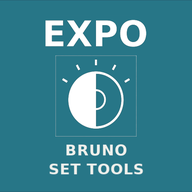
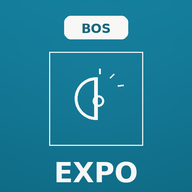
Add files via upload

Changed region(s): [[0.2188, 0.0625, 0.7812, 0.9688], [0.0, 0.0, 1.0, 0.0312]]

diff --git a/index.html b/index.html
@@ -6,27 +6,24 @@
   <meta name="theme-color" id="themeColor" content="#F3F1EC" />
   <meta name="apple-mobile-web-app-capable" content="yes" />
   <meta name="apple-mobile-web-app-status-bar-style" content="black-translucent" />
-  <meta name="apple-mobile-web-app-title" content="EXPO · BRUNO" />
-  <title>BRUNO SET TOOLS / EXPO</title>
+  <meta name="apple-mobile-web-app-title" content="EXPO · BOS" />
+  <title>BRUNO ONSET / EXPO</title>
   <link rel="manifest" href="manifest.webmanifest" />
   <link rel="apple-touch-icon" href="icon-192.png" />
-  <link rel="stylesheet" href="style.css?v=3.19" />
+  <link rel="stylesheet" href="style.css?v=3.20" />
 </head>
 <body>
   <main class="app" id="mainApp">
     <header class="top">
       <div class="top-inner">
-        <div>
-          <div class="eyebrow-row">
-            <a class="eyebrow eyebrow-link" href="https://www.brunoguillard.com/" target="_blank" rel="noopener noreferrer">
-              <span class="eyebrow-mark"></span>
-              <span class="eyebrow-brand">BRUNO SET TOOLS</span>
-              <span class="eyebrow-tool">/ EXPO</span>
-            </a>
-          </div>
-          <h1>Compensateur d’exposition</h1>
+        <div class="brand-stack">
+          <a class="brandline" href="https://www.brunoguillard.com/" target="_blank" rel="noopener noreferrer" aria-label="Site de Bruno Guillard">
+            <span class="bos-pill">BOS</span>
+            <span class="brand-name">BRUNO ONSET</span>
+          </a>
+          <h1>EXPO</h1>
         </div>
-        <button class="theme-toggle" id="themeToggle" type="button">DARK</button>
+        <button class="theme-toggle" id="themeToggle" type="button" aria-label="Changer de thème">DARK</button>
       </div>
     </header>
 
@@ -349,7 +346,7 @@
   <dialog id="infoDialog">
     <div class="dialog-inner">
       <button id="closeDialog" class="close" aria-label="Fermer">×</button>
-      <div class="dialog-kicker">BRUNO SET TOOLS / EXPO</div>
+      <div class="dialog-kicker">BRUNO ONSET / EXPO</div>
       <h2>Comment lire le résultat</h2>
       <p><strong>+1 stop</strong> signifie que le nouveau réglage donne un niveau d’exposition équivalent deux fois plus élevé que le réglage de départ.</p>
       <p><strong>−1 stop</strong> signifie deux fois moins.</p>
@@ -357,6 +354,6 @@
     </div>
   </dialog>
 
-  <script src="app.js?v=3.19"></script>
+  <script src="app.js?v=3.20"></script>
 </body>
 </html>

diff --git a/style.css b/style.css
@@ -608,3 +608,20 @@ body.dark .chips button.native-iso:not(.active){
 .nd-quick-tip .nd-grid{
   margin-top:10px;
 }
+
+
+/* V BOS — brand header */
+.brand-stack{display:flex;flex-direction:column;gap:10px;}
+.brandline{display:inline-flex;align-items:center;gap:10px;width:max-content;text-decoration:none;color:inherit;}
+.brandline:active{opacity:.72;}
+.bos-pill{display:inline-flex;align-items:center;justify-content:center;min-width:42px;height:28px;padding:0 12px;border-radius:999px;background:#FFFFFF;border:1px solid rgba(47,91,102,.18);color:var(--accent);font-size:14px;line-height:1;letter-spacing:.12em;font-weight:900;box-shadow:0 1px 0 rgba(0,0,0,.03);}
+.brand-name{font-size:13px;line-height:1;letter-spacing:.18em;font-weight:850;color:var(--text);}
+.brand-stack h1{margin:0;font-size:38px;line-height:1;letter-spacing:-.045em;}
+body.dark .bos-pill{background:#F3F3F0;color:var(--accent);border-color:rgba(255,255,255,.08);}
+body.dark .brand-name{color:#D8DBDE;}
+@media (max-width:430px){
+  .brandline{gap:8px;}
+  .bos-pill{min-width:38px;height:26px;padding:0 10px;font-size:13px;}
+  .brand-name{font-size:12px;letter-spacing:.16em;}
+  .brand-stack h1{font-size:32px;}
+}

diff --git a/sw.js b/sw.js
@@ -1,5 +1,5 @@
-const CACHE="bruno-set-tools-expo-v3.19";
-const ASSETS=["./","./index.html","./style.css?v=3.19","./app.js?v=3.19","./manifest.webmanifest","./icon-192.png","./icon-512.png","./logo-bruno-guillard.png"];
+const CACHE="bruno-onset-expo-v3.20";
+const ASSETS=["./","./index.html","./style.css?v=3.20","./app.js?v=3.20","./manifest.webmanifest","./icon-192.png","./icon-512.png","./logo-bruno-guillard.png"];
 self.addEventListener("install",e=>{e.waitUntil(caches.open(CACHE).then(c=>c.addAll(ASSETS)));self.skipWaiting();});
 self.addEventListener("activate",e=>{e.waitUntil(caches.keys().then(keys=>Promise.all(keys.filter(k=>k!==CACHE).map(k=>caches.delete(k)))));self.clients.claim();});
 self.addEventListener("fetch",e=>{
